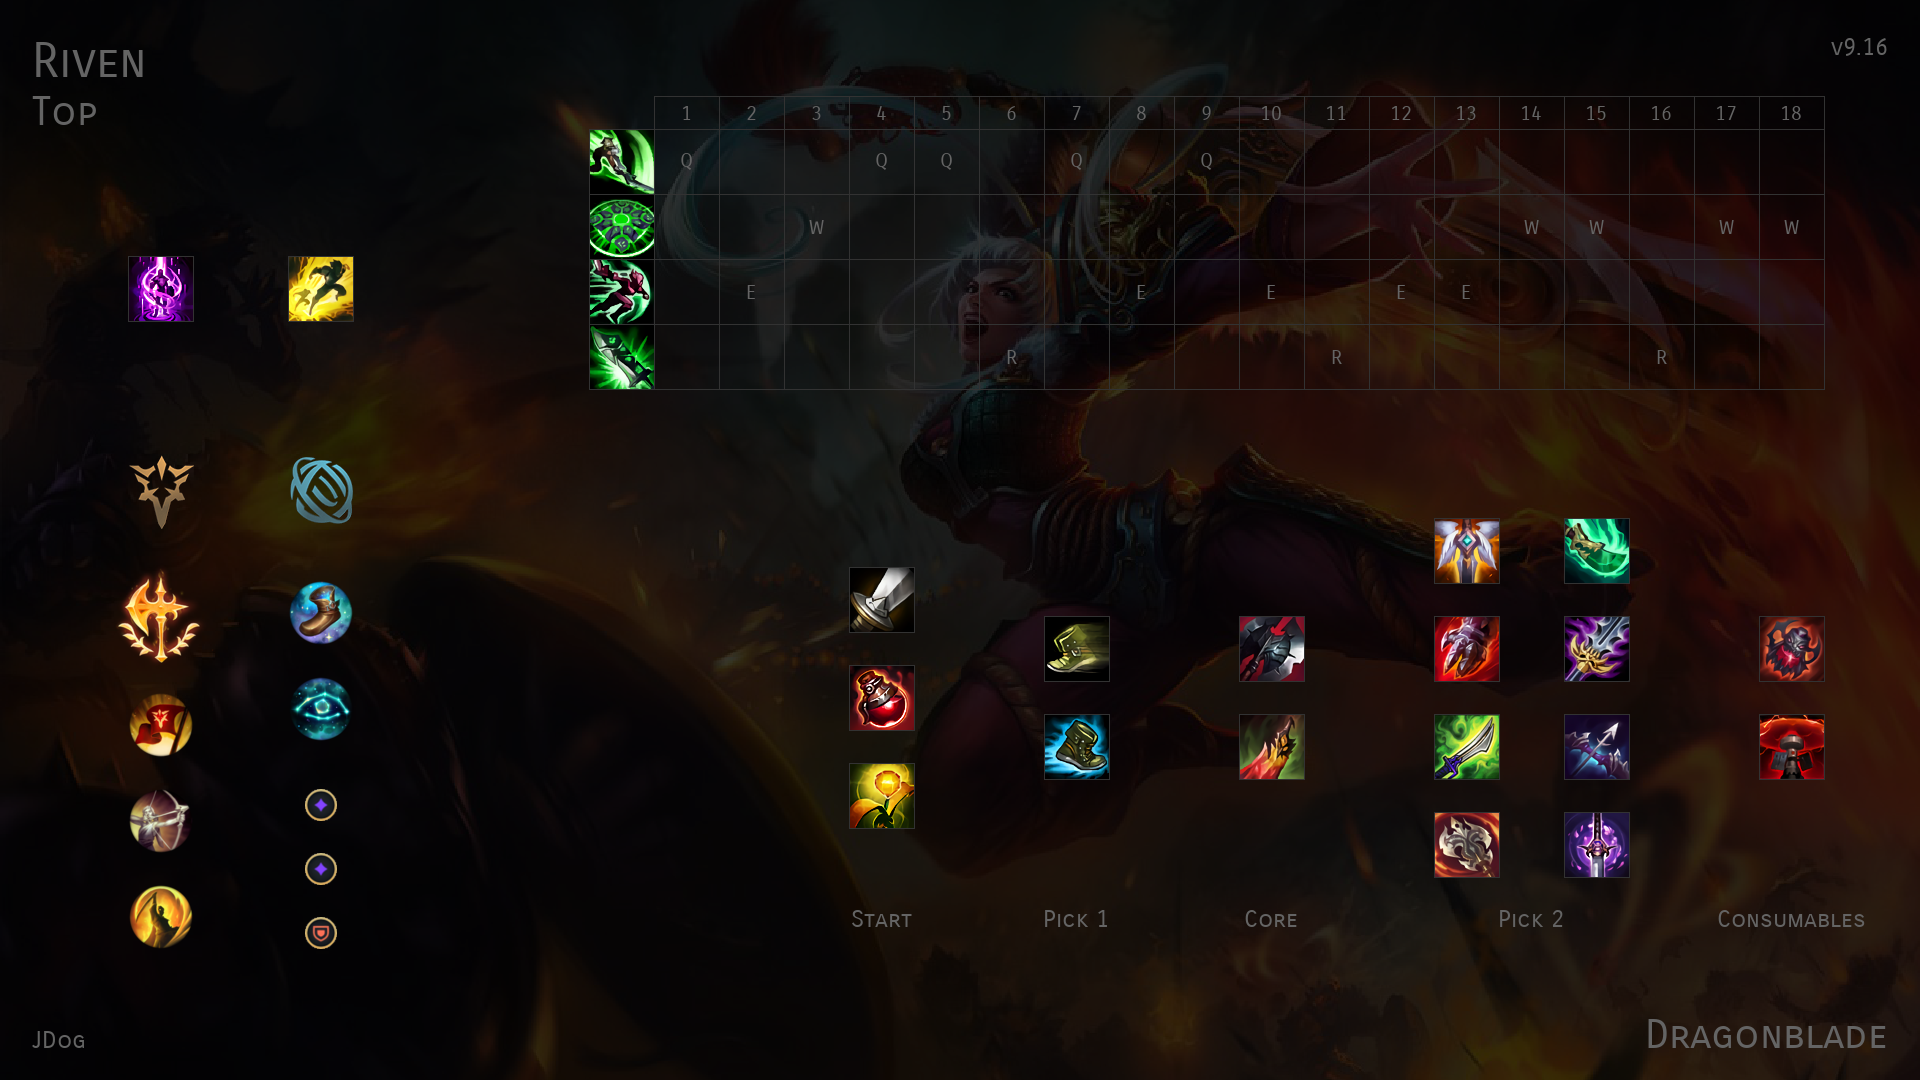
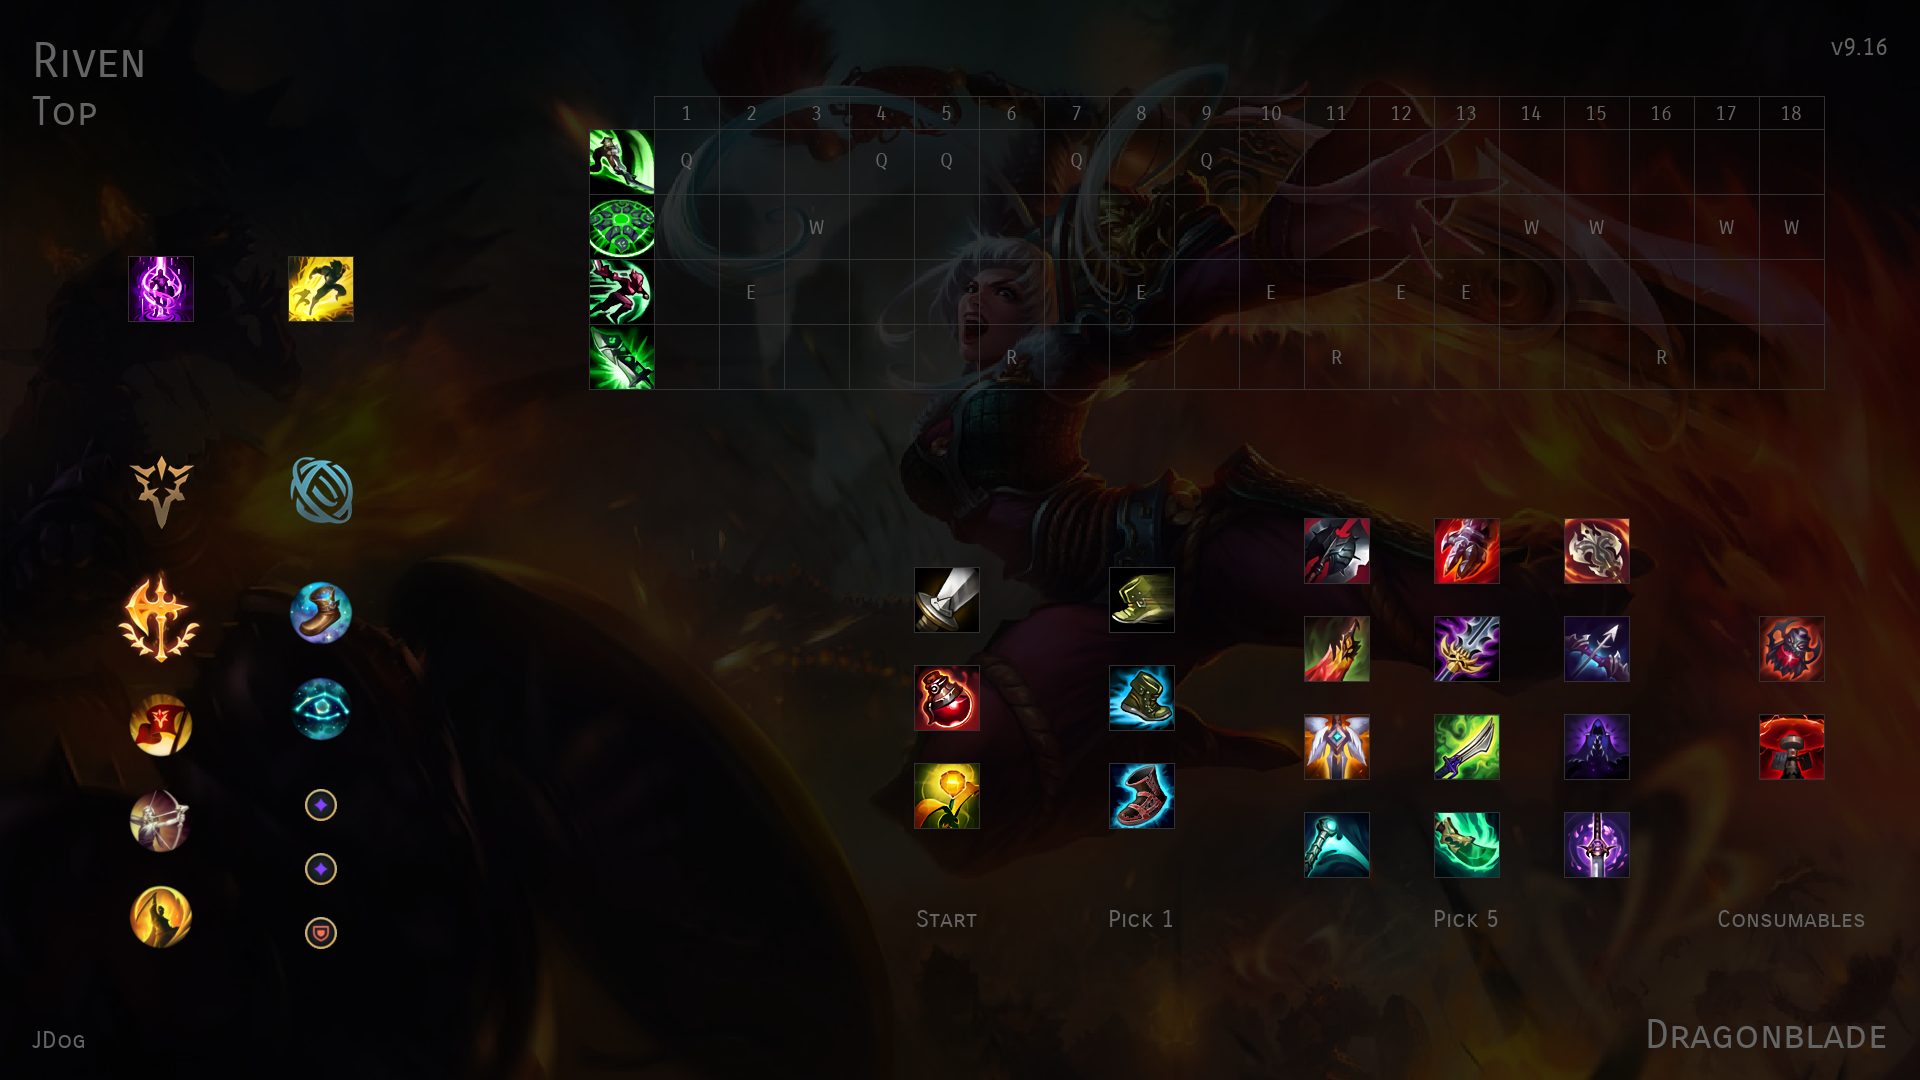
update transparent item drawing

diff --git a/shopkeeper.py b/shopkeeper.py
@@ -11,6 +11,7 @@ import sys
 BUILD_IMAGE_DIMENSIONS = (1920, 1080)
 BACKGROUND_ALPHA = 55
 DRAW_COLOR = (50, 50, 50)
+BACK_COLOR = (0, 0, 0)
 TEXT_COLOR = (100, 100, 100)
 TRANSPARENCY_THRESHOLD = 64
 LETTER_OPTIONS = ('Q', 'W', 'E', 'R')
@@ -276,7 +277,7 @@ def draw_items(build_image, build_data):
 
 			for item_name in option_list:
 				outline_rectangle = ((x_offset - 65, y_offset), (x_offset, y_offset + 65))
-				item_drawer.rectangle(outline_rectangle, None, DRAW_COLOR)
+				item_drawer.rectangle(outline_rectangle, BACK_COLOR, DRAW_COLOR)
 
 				# we have special logic for getting enchantable item images, if they have a valid enchantment specified in parentheses
 				item_image = None
@@ -301,7 +302,8 @@ def draw_items(build_image, build_data):
 					item_image = item_images.get(item_name.replace('\'', '&#39;'))
 
 				if item_image:
-					build_image.paste(item_image, (x_offset - 65 + 1, y_offset + 1))
+					item_mask = item_image if 'A' in item_image.mode else None
+					build_image.paste(item_image, (x_offset - 65 + 1, y_offset + 1), item_mask)
 				y_offset += 33 + 65
 
 			x_offset -= 65 + 65

diff --git a/README.md b/README.md
@@ -2,7 +2,9 @@
 
 Generates League of Legends build images from data files.
 
-See the `examples` folder for examples (duh). Each `.json` corresponds to a `.png`, so `python shopkeeper.py sylas.json` will create `sylas.png`.
+See the `examples` folder for examples (duh).
+
+Each `.json` corresponds to a `.png`, so `python shopkeeper.py examples/sylas.json` will create `examples/sylas.png`.
 
 If an expected key is missing from the input, its corresponding image section will be missing from the output.
 
